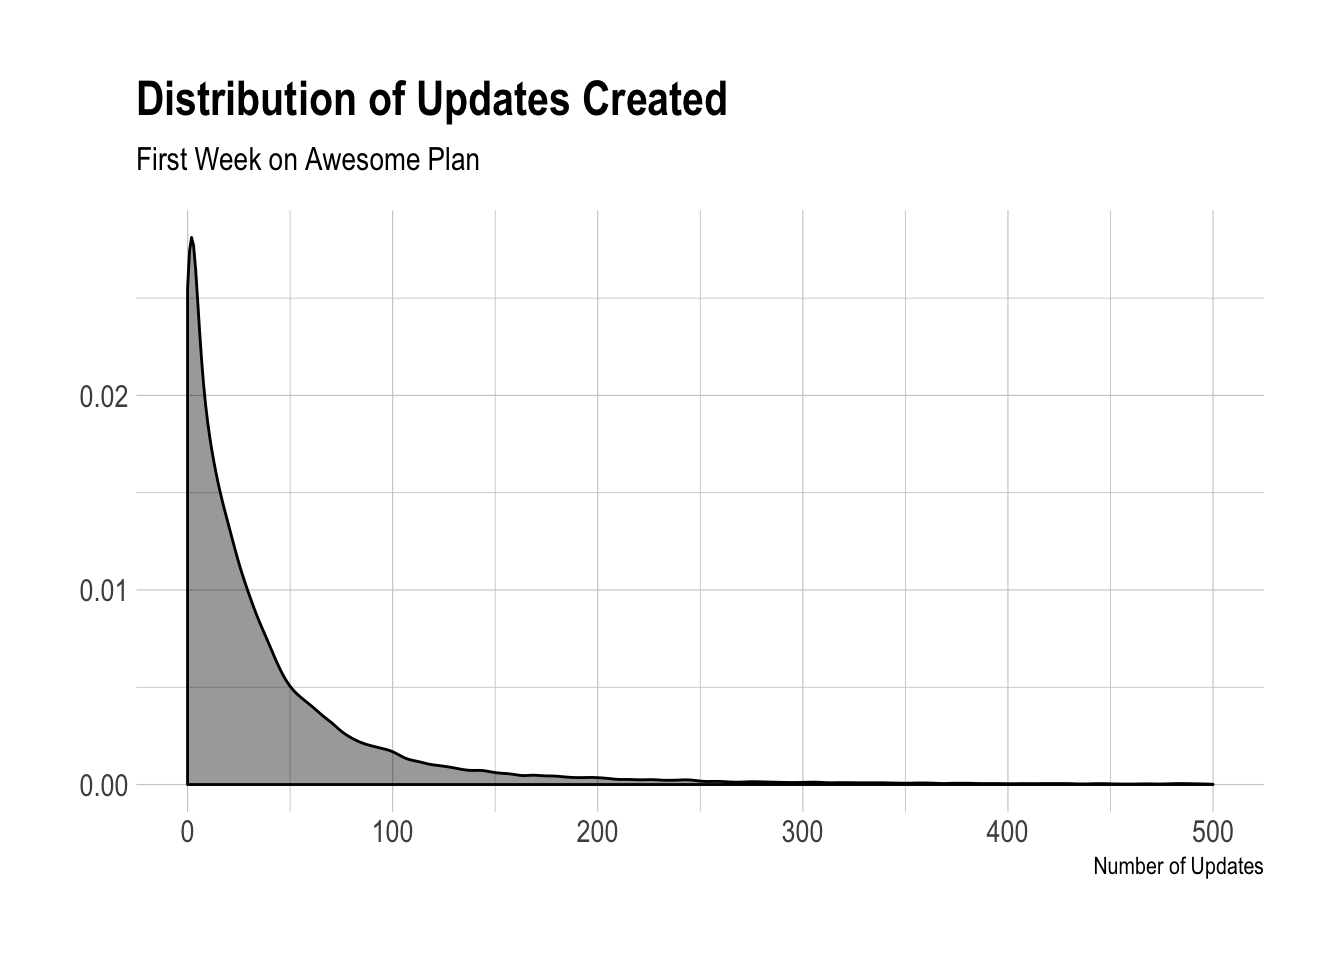
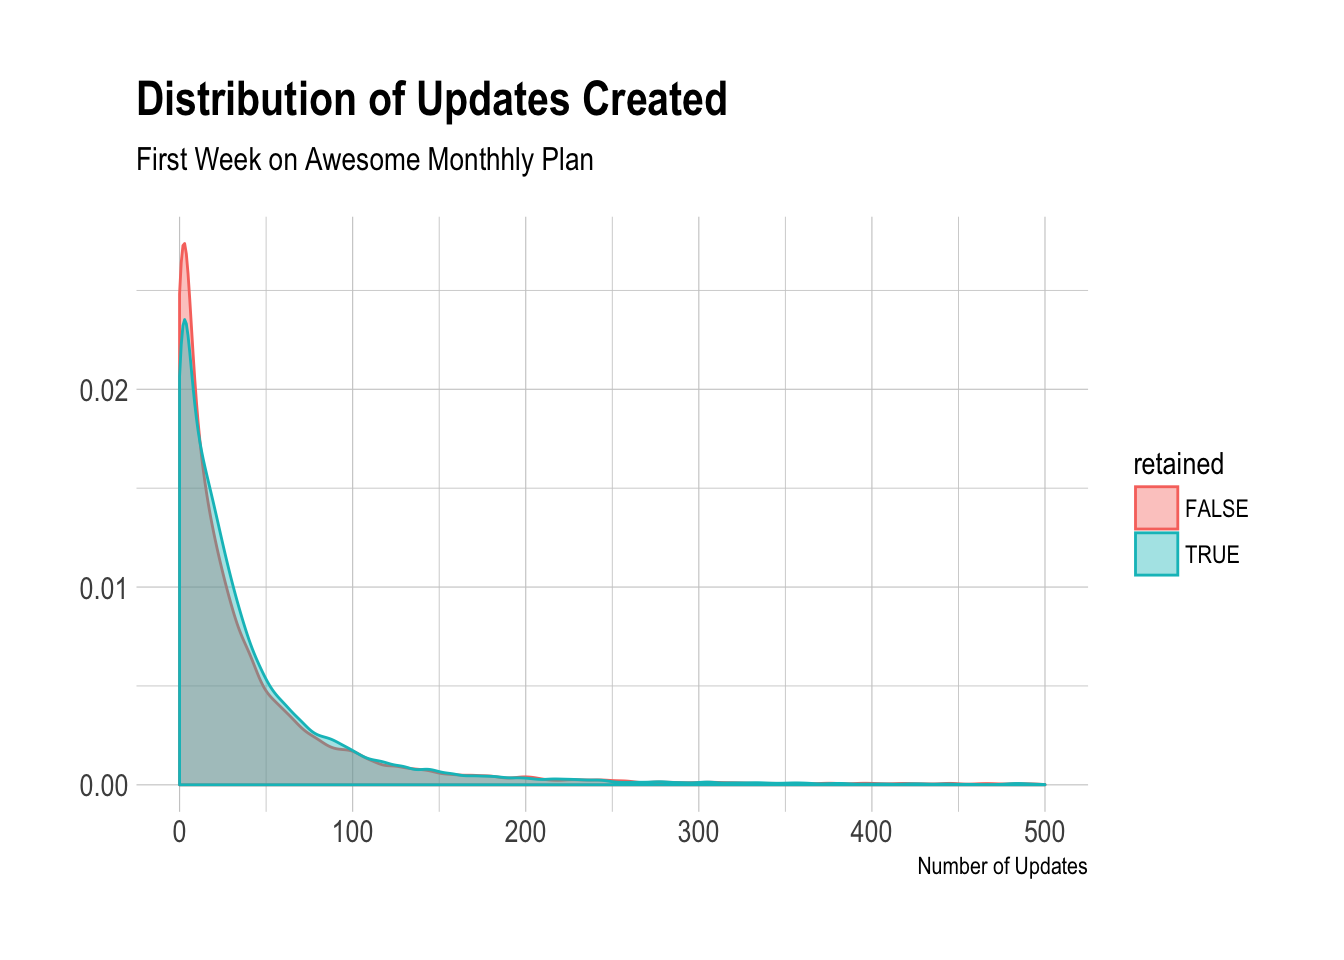
Updated awesome activation analysis

diff --git a/content/blog/awesome-activation-metric.html b/content/blog/awesome-activation-metric.html
@@ -72,10 +72,9 @@ group by 1, 2, 3, 4, 5, 6, 7</code></pre>
 awesome &lt;- awesome %&gt;% 
   mutate(days_on_plan = ifelse(is.na(canceled_at), 
                                as.numeric(Sys.Date() - started_at),
-                               as.numeric(canceled_at - started_at)))</code></pre>
-<pre><code>## Warning in as.POSIXlt.POSIXct(Sys.time()): unknown timezone &#39;zone/tz/2018c.
-## 1.0/zoneinfo/America/New_York&#39;</code></pre>
-<pre class="r"><code># indicate if user was retained
+                               as.numeric(canceled_at - started_at)))
+
+# indicate if user was retained
 awesome &lt;- awesome %&gt;% 
   mutate(retained = days_on_plan &gt; 180)</code></pre>
 <p>We can see the proportion of customers that were retained for three months – we’ll segment by the plan type because annual customers are probably more likely to be retained.</p>
@@ -203,5 +202,7 @@ awesome %&gt;%
 ## 3 T         F         9834   0.311
 ## 4 T         T        21751   0.689</code></pre>
 <p>This might not be a good indicator. It only increases the likelihood of being retained by a few percentage points. :-<br />
-</p>
+### Time Before Upgrading Just for kicks and giggles, let’s visualize the distribution on the number of days between the signup date and subscription start date.</p>
+<p><img src="/blog/awesome-activation-metric_files/figure-html/unnamed-chunk-20-1.png" width="672" /></p>
+<p>We can see that the distribution is quite wide. A higher percentage of users that were retained started their subscriptions shortly after signing up.</p>
 </div>
